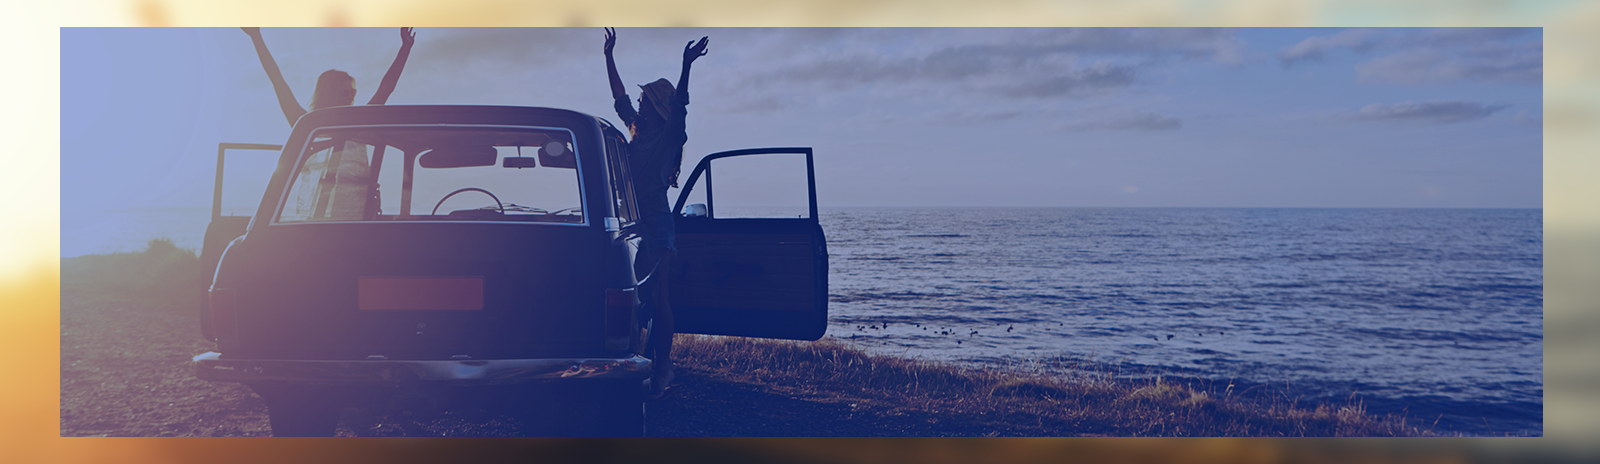
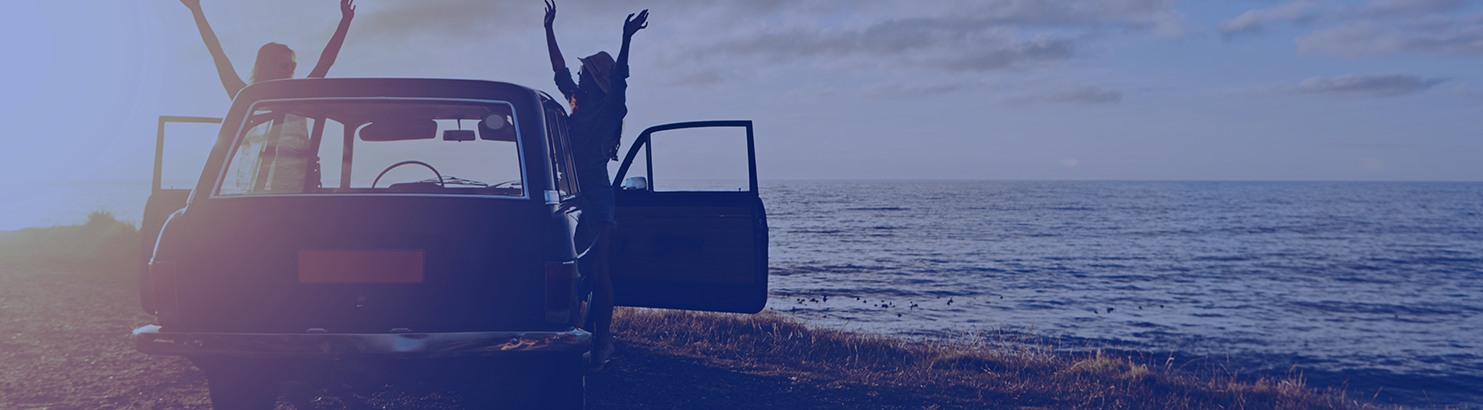
ten commit

diff --git a/scss/styles.css b/scss/styles.css
@@ -10,7 +10,7 @@ input {
   color: #fff !important; }
 
 .heading-style {
-  font-size: 100px;
+  font-size: 90px;
   font-family: HelveticaNeue, sans-serif;
   font-style: italic;
   font-weight: 900;
@@ -38,7 +38,8 @@ input {
   background-image: url("../src/img/goodyear-header-bg.png");
   background-color: #ffdf1b;
   background-position: center;
-  background-repeat: no-repeat; }
+  background-repeat: no-repeat;
+  background-size: auto 100%; }
   .good-header__wrapper {
     width: 1000px;
     margin: auto;
@@ -120,7 +121,8 @@ input {
   background-image: url("../src/img/goodyear-third-section-bg.png");
   background-position: center;
   background-repeat: no-repeat;
-  background-color: #ffdf1b; }
+  background-color: #ffdf1b;
+  background-size: auto 100%; }
   .good-third-section__wrapper {
     width: 1000px;
     margin: auto;
@@ -239,9 +241,10 @@ input {
 .good-fifth-section {
   width: 100%;
   background-image: url(../src/img/goodyear-fifth-section-bg.png);
-  background-position: center 25px;
+  background-position: center;
   background-repeat: no-repeat;
-  background-color: #ffe400; }
+  background-color: #ffe400;
+  background-size: auto 100%; }
   .good-fifth-section__wrapper {
     width: 1000px;
     margin: auto;
@@ -405,7 +408,8 @@ input {
   background-image: url(../src/img/goodyear-seventh-section-bg.png);
   background-position: center;
   background-repeat: no-repeat;
-  background-color: #ffdf1b; }
+  background-color: #ffdf1b;
+  background-size: auto 100%; }
   .good-seventh-section__wrapper {
     width: 1000px;
     margin: auto;
@@ -421,7 +425,7 @@ input {
       position: absolute;
       margin: 0 0 0 400px; }
     .good-seventh-section__wrapper_comments-descr {
-      margin: 568px 0 40px 200px;
+      margin: 568px 0 40px 50px;
       padding: 160px 0 40px 40px;
       width: 740px;
       border-color: #ffdf1b;
@@ -552,7 +556,8 @@ input {
   background-image: url(../src/img/goodyear-footer-bg.png);
   background-repeat: no-repeat;
   background-position: center;
-  background-color: #ffdf1b; }
+  background-color: #ffdf1b;
+  background-size: auto 100%; }
   .good-footer__wrapper {
     width: 1000px;
     display: block;

diff --git a/scss/styles.scss b/scss/styles.scss
@@ -6,7 +6,7 @@ input {-webkit-appearance: none; box-shadow: none !important; }
 :-webkit-autofill { color: #fff !important; }
 
 .heading-style{
-  font-size: 100px;
+  font-size: 90px;
   font-family: HelveticaNeue, sans-serif;
   font-style: italic;
   font-weight: 900;
@@ -38,6 +38,7 @@ input {-webkit-appearance: none; box-shadow: none !important; }
   background-color: #ffdf1b;
   background-position: center;
   background-repeat: no-repeat;
+  background-size: auto 100%;
 
   &__wrapper{
     width: 1000px;
@@ -82,6 +83,7 @@ input {-webkit-appearance: none; box-shadow: none !important; }
   background-image: url("../src/img/good-year-weel-print.png");
   background-position: center 400px;
   background-repeat: no-repeat;
+
 
   &__wrapper{
     width: 1000px;
@@ -144,6 +146,7 @@ input {-webkit-appearance: none; box-shadow: none !important; }
   background-position: center;
   background-repeat: no-repeat;
   background-color: #ffdf1b;
+  background-size: auto 100%;
 
   &__wrapper{
     width: 1000px;
@@ -305,9 +308,10 @@ input {-webkit-appearance: none; box-shadow: none !important; }
 .good-fifth-section{
   width: 100%;
   background-image: url(../src/img/goodyear-fifth-section-bg.png);
-  background-position: center 25px;
+  background-position: center;
   background-repeat: no-repeat;
   background-color: #ffe400;
+  background-size: auto 100%;
 
   &__wrapper{
     width: 1000px;
@@ -522,6 +526,7 @@ input {-webkit-appearance: none; box-shadow: none !important; }
   background-position: center;
   background-repeat: no-repeat;
   background-color: #ffdf1b;
+  background-size: auto 100%;
 
   &__wrapper{
     width: 1000px;
@@ -540,7 +545,7 @@ input {-webkit-appearance: none; box-shadow: none !important; }
     }
 
     &_comments-descr{
-      margin: 568px 0 40px 200px;
+      margin: 568px 0 40px 50px;
       padding: 160px 0 40px 40px;
       width: 740px;
       border-color: #ffdf1b;
@@ -712,6 +717,7 @@ input {-webkit-appearance: none; box-shadow: none !important; }
   background-repeat: no-repeat;
   background-position: center;
   background-color: #ffdf1b;
+  background-size: auto 100%;
 
   &__wrapper {
     width: 1000px;

diff --git a/index.html b/index.html
@@ -1,14 +1,24 @@
 <!DOCTYPE html>
 <html lang="en">
-<link rel="stylesheet" href="scss/styles.css">
 <head>
     <meta charset="UTF-8">
     <title>Goodyear</title>
+    <link rel="stylesheet" href="scss/styles.css">
+    <script>
+        (function(i,s,o,g,r,a,m){i['GoogleAnalyticsObject']=r;i[r]=i[r]||function(){
+                (i[r].q=i[r].q||[]).push(arguments)},i[r].l=1*new Date();a=s.createElement(o),
+            m=s.getElementsByTagName(o)[0];a.async=1;a.src=g;m.parentNode.insertBefore(a,m)
+        })(window,document,'script','https://www.google-analytics.com/analytics.js','ga');
+
+        ga('create', 'UA-102523682-1', 'auto');
+        ga('send', 'pageview');
+
+    </script>
 </head>
 <body>
 <header class="good-header">
     <div class="good-header__wrapper">
-        <a href="#" target="_blank"><img src="src/img/goodyear-sigma-logo.png" class="good-header__wrapper_logo"></a>
+        <a href="http://sigmadigital.com.ua" target="_blank"><img src="src/img/goodyear-sigma-logo.png" class="good-header__wrapper_logo"></a>
         <span class="good-header__wrapper_arrow"></span>
     </div>
 </header>
